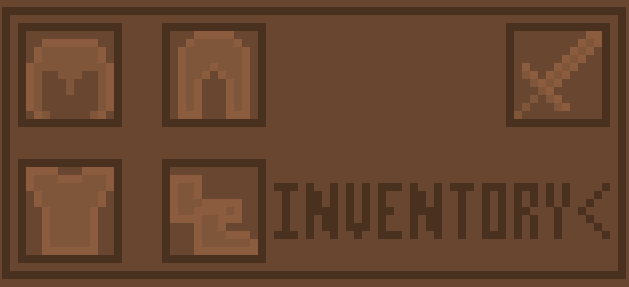
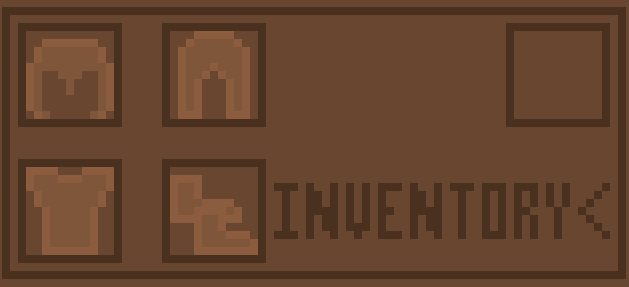
ADD : handle recuperation of armors and excange in inventory (but the last item dont go back on the ground)

Changed region(s): [[0.8458, 0.1115, 0.9666, 0.3902], [0.8156, 0.223, 0.8458, 0.2509], [0.3625, 0.6969, 0.3927, 0.7247]]

diff --git a/src/event_management/key_management/add_armor.c b/src/event_management/key_management/add_armor.c
@@ -1,0 +1,84 @@
+/*
+** EPITECH PROJECT, 2022
+** PIKSEL-RPG-MIRROR
+** File description:
+** add_armor
+*/
+
+#include "struct_var.h"
+#include "my.h"
+
+void add_helmet(inventory_t *inventory, loot_t *loot)
+{
+    armor_t *temp = NULL;
+    if (inventory->helmet != NULL) {
+        temp = malloc(sizeof(armor_t));
+        temp = inventory->helmet;
+    }
+    inventory->helmet = loot->armor;
+    sfSprite_setPosition(inventory->helmet->sprite_data->sprite,
+    (sfVector2f){355, 245});
+    sfSprite_setScale(inventory->helmet->sprite_data->sprite,
+    (sfVector2f){2.1, 2.1});
+    if (temp != NULL) {
+        loot->armor = temp;
+        loot->armor_or_weapon = 0;
+    }
+}
+
+void add_chestplate(inventory_t *inventory, loot_t *loot)
+{
+    armor_t *temp = NULL;
+    if (inventory->chestplate != NULL) {
+        temp = malloc(sizeof(armor_t));
+        temp = inventory->chestplate;
+    }
+    inventory->chestplate = loot->armor;
+    sfSprite_setPosition(inventory->chestplate->sprite_data->sprite,
+    (sfVector2f){355, 530});
+    sfSprite_setScale(inventory->chestplate->sprite_data->sprite,
+    (sfVector2f){2.1, 2.1});
+    if (temp != NULL) {
+        my_putstr("on repose l'ancien equipement");
+        loot->armor = temp;
+        loot->armor_or_weapon = 0;
+    }
+}
+
+void add_pant(inventory_t *inventory, loot_t *loot)
+{
+    armor_t *temp = NULL;
+    if (inventory->pant != NULL) {
+        temp = malloc(sizeof(armor_t));
+        temp = inventory->pant;
+    }
+    inventory->pant = loot->armor;
+    sfSprite_setPosition(inventory->pant->sprite_data->sprite,
+    (sfVector2f){658, 245});
+    sfSprite_setScale(inventory->pant->sprite_data->sprite,
+    (sfVector2f){2.1, 2.1});
+    if (temp != NULL) {
+        my_putstr("on repose l'ancien equipement");
+        loot->armor = temp;
+        loot->armor_or_weapon = 0;
+    }
+}
+
+void add_boots(inventory_t *inventory, loot_t *loot)
+{
+    armor_t *temp = NULL;
+    if (inventory->boots != NULL) {
+        temp = malloc(sizeof(armor_t));
+        temp = inventory->boots;
+    }
+    inventory->boots = loot->armor;
+    sfSprite_setPosition(inventory->boots->sprite_data->sprite,
+    (sfVector2f){658, 530});
+    sfSprite_setScale(inventory->boots->sprite_data->sprite,
+    (sfVector2f){2.1, 2.1});
+    if (temp != NULL) {
+        my_putstr("on repose l'ancien equipement");
+        loot->armor = temp;
+        loot->armor_or_weapon = 0;
+    }
+}

diff --git a/src/game_management/display_loot_and_inventory.c b/src/game_management/display_loot_and_inventory.c
@@ -1,0 +1,54 @@
+/*
+** EPITECH PROJECT, 2022
+** PIKSEL-RPG-MIRROR
+** File description:
+** display_loot
+*/
+
+#include "struct_var.h"
+#include "my.h"
+
+void display_loot(game_t *game)
+{
+    if (game->background->loot != NULL) {
+        for (int i = 0;
+        game->background->loot[i]->armor_or_weapon != 2 && i < 9; i++) {
+            if (game->background->loot[i]->armor_or_weapon == 3)
+                continue;
+            if (game->background->loot[i]->armor_or_weapon == 0) {
+                sfRenderWindow_drawSprite(game->window,
+                game->background->loot[i]->armor->sprite_data->sprite, NULL);
+            }
+            if (game->background->loot[i]->armor_or_weapon == 1) {
+                sfRenderWindow_drawSprite(game->window,
+                game->background->loot[i]->weapon->sprite_data->sprite, NULL);
+            }
+        }
+    }
+}
+
+void display_inventory(game_t *game)
+{
+    sfRenderWindow_drawSprite(game->window,
+    game->player->inventory->sprite_data->sprite, NULL);
+    if (game->player->inventory->weapon != NULL) {
+        sfRenderWindow_drawSprite(game->window,
+        game->player->inventory->weapon->sprite_data->sprite, NULL);
+    }
+    if (game->player->inventory->boots != NULL) {
+        sfRenderWindow_drawSprite(game->window,
+        game->player->inventory->boots->sprite_data->sprite, NULL);
+    }
+    if (game->player->inventory->chestplate != NULL) {
+        sfRenderWindow_drawSprite(game->window,
+        game->player->inventory->chestplate->sprite_data->sprite, NULL);
+    }
+    if (game->player->inventory->pant != NULL) {
+        sfRenderWindow_drawSprite(game->window,
+        game->player->inventory->pant->sprite_data->sprite, NULL);
+    }
+    if (game->player->inventory->helmet != NULL) {
+        sfRenderWindow_drawSprite(game->window,
+        game->player->inventory->helmet->sprite_data->sprite, NULL);
+    }
+}

diff --git a/include/struct_var.h b/include/struct_var.h
@@ -61,6 +61,7 @@ typedef struct loot_s loot_t;
 typedef struct framebuffer_s framebuffer_t;
 typedef struct nest_particle_s nest_particle_t;
 typedef struct particle_s particle_t;
+typedef struct inventory_s inventory_t;
 
 /************************** struct ***********************************/
 
@@ -69,6 +70,16 @@ struct dialogues_s {
     bool binary_reponse;
     dialogues_t **next;
     //struct quest *quest_add;
+};
+
+struct inventory_s {
+    bool display_inventory;
+    sprite_data_t *sprite_data;
+    armor_t *helmet;
+    armor_t *chestplate;
+    armor_t *pant;
+    armor_t *boots;
+    weapon_t *weapon;
 };
 
 struct loot_s {
@@ -191,6 +202,7 @@ struct player_s {
     int player_mode;
     int traveled_distance;
     stat_t *stat;
+    inventory_t *inventory;
     sfIntRect hitbox;
 };
 
@@ -445,6 +457,14 @@ void spawn_random_loot(loot_t **loot, sfVector2f pos);
 void display_loot(game_t *game);
 void get_loot(game_t *game);
 bool init_loot(loot_t *loot[10]);
+void display_inventory(game_t *game);
+bool init_inventory(inventory_t **inventory);
+void invert_display_of_inventory(inventory_t *inventory);
+void add_loot_to_inventory(inventory_t *inventory, loot_t *loot);
+void add_helmet(inventory_t *inventory, loot_t *loot);
+void add_chestplate(inventory_t *inventory, loot_t *loot);
+void add_pant(inventory_t *inventory, loot_t *loot);
+void add_boots(inventory_t *inventory, loot_t *loot);
 
 //* npc
 

diff --git a/src/event_management/key_management/handle_inv.c b/src/event_management/key_management/handle_inv.c
@@ -1,0 +1,33 @@
+/*
+** EPITECH PROJECT, 2022
+** PIKSEL-RPG-MIRROR
+** File description:
+** handle_inventory
+*/
+
+#include "struct_var.h"
+#include "my.h"
+
+void invert_display_of_inventory(inventory_t *inventory)
+{
+    if (inventory->display_inventory == false)
+        inventory->display_inventory = true;
+    else
+        inventory->display_inventory = false;
+}
+
+void add_loot_to_inventory(inventory_t *inventory, loot_t *loot)
+{
+    void (*armors[4])(inventory_t *, loot_t *) =
+    {add_helmet, add_chestplate, add_pant, add_boots};
+
+    if (loot->armor_or_weapon == 1) {
+        inventory->weapon = loot->weapon;
+        sfSprite_setPosition(inventory->weapon->sprite_data->sprite,
+        (sfVector2f){1380, 245});
+        sfSprite_setScale(inventory->weapon->sprite_data->sprite,
+        (sfVector2f){2.1, 2.1});
+    } else if (loot->armor_or_weapon == 0) {
+        armors[loot->armor->id - 1](inventory, loot);
+    }
+}

diff --git a/src/event_management/key_management/handle_loot.c b/src/event_management/key_management/handle_loot.c
@@ -17,16 +17,16 @@ void destroy_loot(loot_t *loot)
     }
 }
 
-void take_loot(loot_t *loot)
+void take_loot(inventory_t *inventory, loot_t *loot)
 {
     if (loot->armor_or_weapon == 0) {
         my_putstr(loot->armor->name);
         my_putchar('\n');
-        destroy_loot(loot);
+        add_loot_to_inventory(inventory, loot);
     } else {
         my_putstr(loot->weapon->name);
         my_putchar('\n');
-        destroy_loot(loot);
+        add_loot_to_inventory(inventory, loot);
     }
     loot->armor_or_weapon = 3;
 }
@@ -44,7 +44,8 @@ void get_loot(game_t *game)
         game->player->pos.x <= loot_pos.x + 100 &&
         game->player->pos.y >= loot_pos.y - 100 &&
         game->player->pos.y <= loot_pos.y + 100) {
-            take_loot(game->background->loot[i]);
+            take_loot(game->player->inventory, game->background->loot[i]);
+            return;
         }
     }
     

diff --git a/src/init_game/init_inventory.c b/src/init_game/init_inventory.c
@@ -1,0 +1,26 @@
+/*
+** EPITECH PROJECT, 2022
+** PIKSEL-RPG-MIRROR
+** File description:
+** init_inventory
+*/
+
+#include "struct_var.h"
+#include "my.h"
+
+bool init_inventory(inventory_t **inventory)
+{
+    (*inventory) = my_calloc(1, sizeof(inventory_t));
+    (*inventory)->sprite_data = load_sprite_data("assets/items/Inventory.png");
+    if ((*inventory)->sprite_data == NULL)
+        return (true);
+    sfSprite_setScale((*inventory)->sprite_data->sprite, (sfVector2f){2.1, 2.1});
+    sfSprite_setPosition((*inventory)->sprite_data->sprite, (sfVector2f){300, 180});
+    (*inventory)->boots = NULL;
+    (*inventory)->chestplate = NULL;
+    (*inventory)->helmet = NULL;
+    (*inventory)->pant = NULL;
+    (*inventory)->weapon = NULL;
+    (*inventory)->display_inventory = false;
+    return (false);
+}

diff --git a/src/items/spawn_random_loot.c b/src/items/spawn_random_loot.c
@@ -56,11 +56,13 @@ void spawn_random_loot(loot_t **loot, sfVector2f pos)
     sfGreen, sfGreen, sfGreen, sfGreen, sfBlue, sfBlue, sfBlue, sfRed, sfRed,
     sfYellow};
 
-    for (; loot[which_loot]->armor_or_weapon != 2 &&
-    loot[which_loot]->armor_or_weapon != 3 && which_loot < 9; which_loot++);
+    for (; loot[which_loot]->armor_or_weapon < 2
+    && which_loot < 9; which_loot++);
     if (which_loot < 9) {
         loot[which_loot] = malloc(sizeof(loot_t));
         loot[which_loot]->position = pos;
         set_armor_or_weapon(&(loot[which_loot]), colors, pos);
+        my_put_nbr(which_loot);
+        my_putchar('\n');
     }
 }

diff --git a/src/event_management/key_management/event_key.c b/src/event_management/key_management/event_key.c
@@ -28,6 +28,10 @@ int manage_key(game_t *game)
         game->background->scene_background != MENU) {
             spawn_random_loot(game->background->loot, (sfVector2f){700, 600});
         }
+        if (game->event.key.code == sfKeyE &&
+        game->background->scene_background != MENU) {
+            invert_display_of_inventory(game->player->inventory);
+        }
         manage_key_z(game);
         manage_key_q(game);
         manage_key_s(game);

diff --git a/src/game_management/display.c b/src/game_management/display.c
@@ -73,5 +73,7 @@ void display(game_t *game)
     game->background->scene_background == SETTINGS)
         display_menu(game);
     display_background(game);
+    if (game->player->inventory->display_inventory == true)
+        display_inventory(game);
     sfRenderWindow_display(game->window);
 }

diff --git a/src/game_management/init_game.c b/src/game_management/init_game.c
@@ -26,6 +26,8 @@ bool fill_game(game_t *game)
         return (true);
     if (init_npc(game->npc))
         return (true);
+    if (init_inventory(&game->player->inventory))
+        return (true);
     return (false);
 }
 
